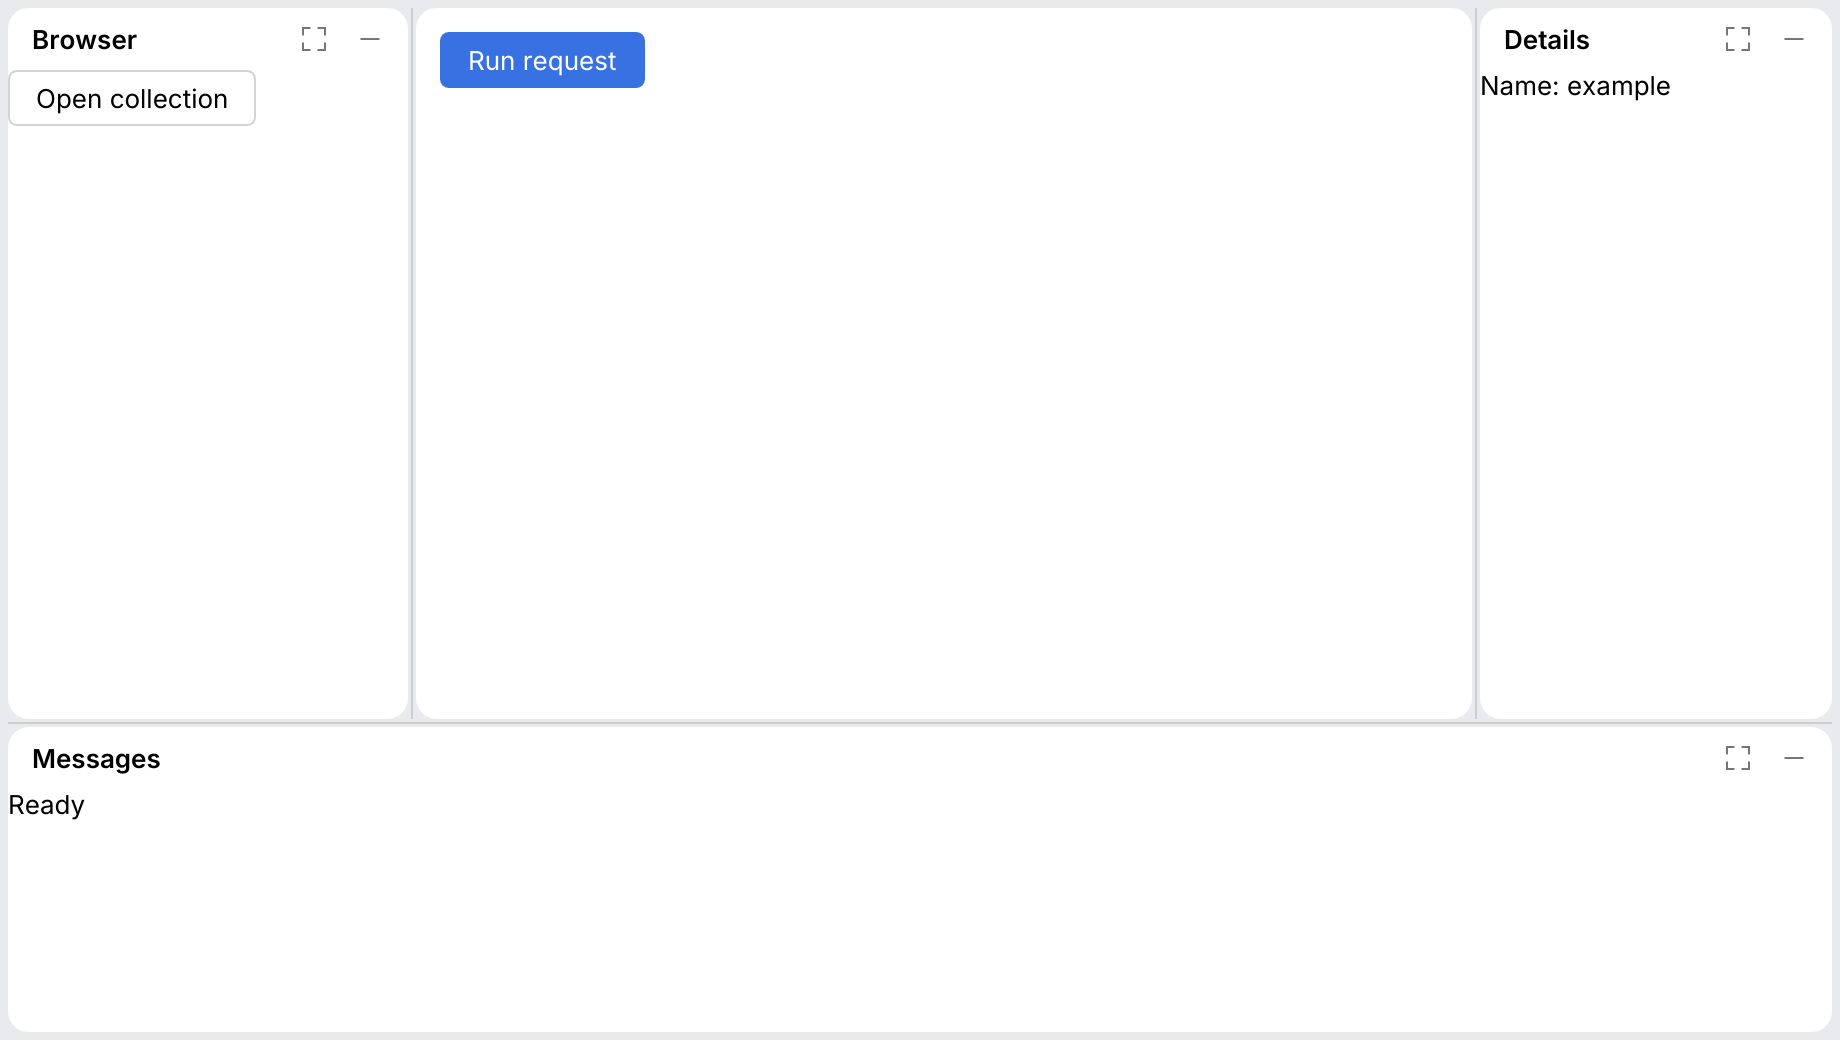
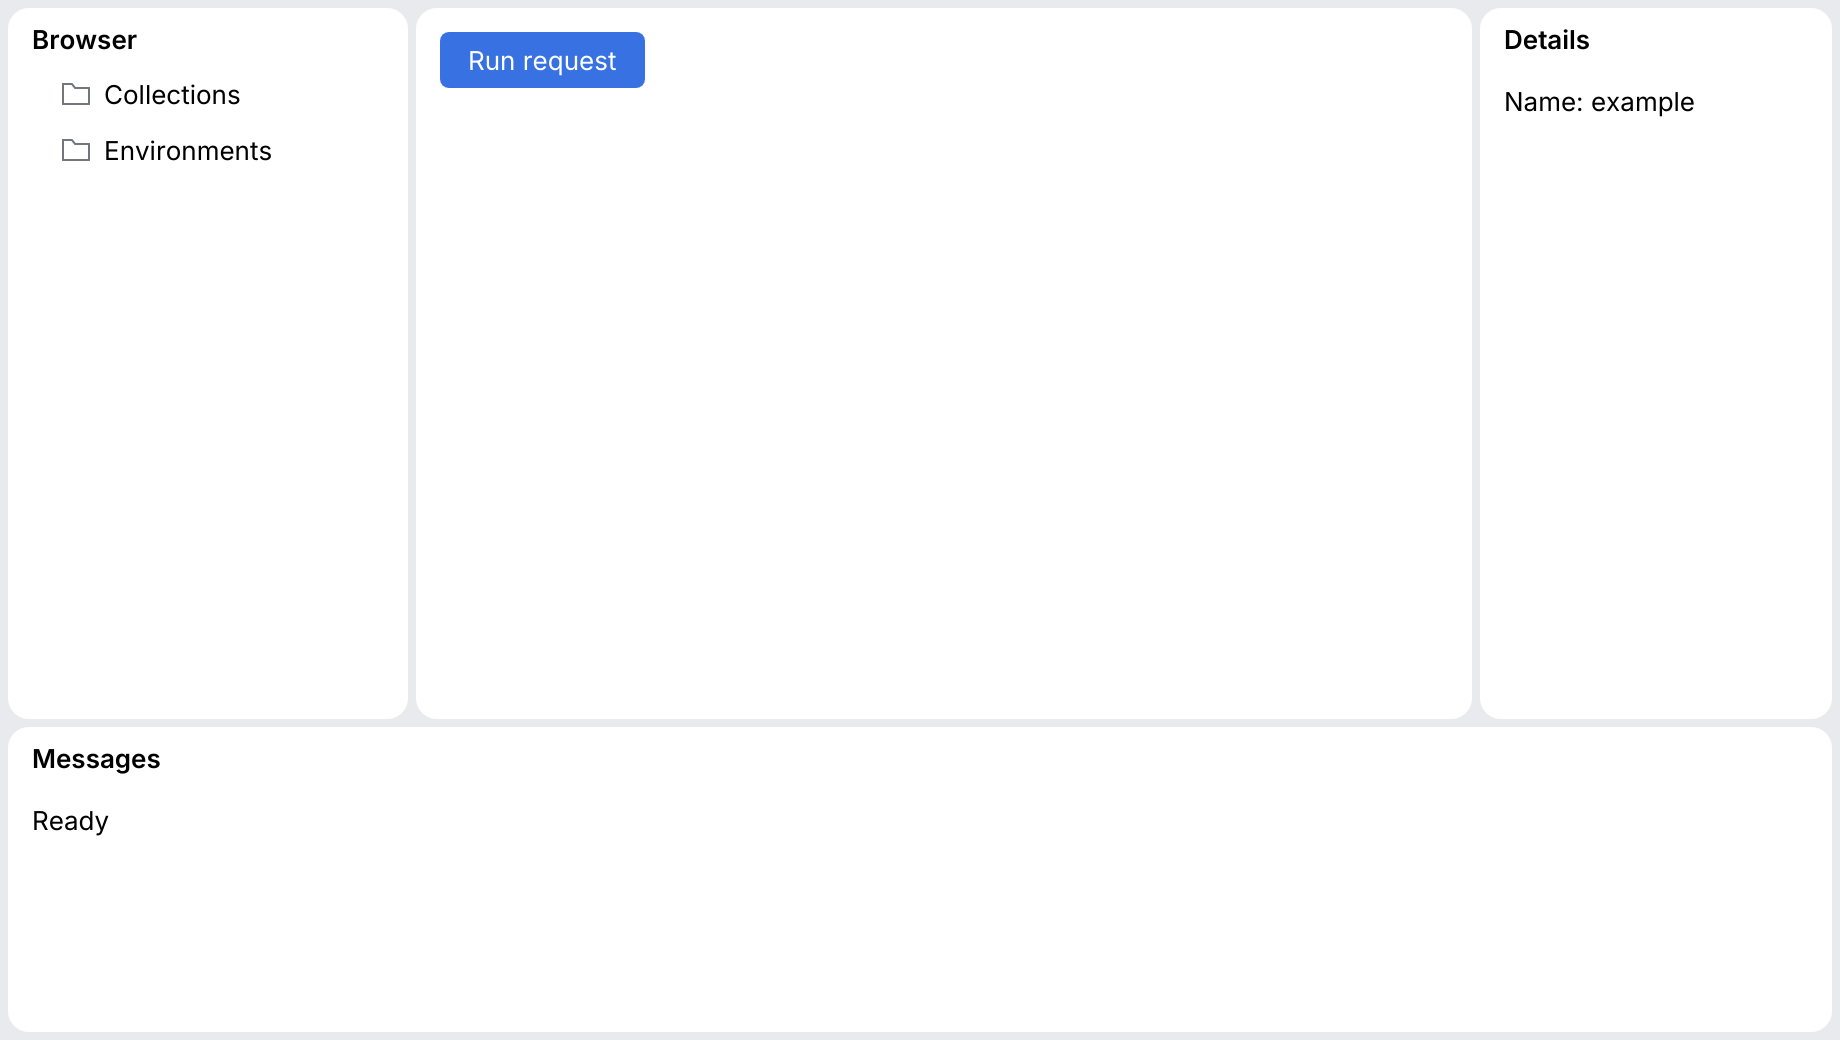
fix(workbench): islands gaps without lines, hover-revealed tool window actions
Match the Android Studio Islands shell:

- SplitPane::line(false) keeps the divider as the plain frame-colored gap;
  Workbench uses it, so islands are no longer separated by hairlines.
- Tool window headers fade their Maximize/Restore and Hide actions in on
  island hover or focus (Panel::hover_actions), with tooltips.
- Workbench::padded(region, bool) insets form and text bodies; trees and
  lists stay edge to edge.
- Fix the island header snapshot hovering at physical instead of logical
  coordinates, so the docs now show the revealed actions.

Claude-Session: https://claude.ai/code/session_01CFSJRhkJs2RrB2frFQVn3u

Changed region(s): [[0.0, 0.0615, 0.1549, 0.1538], [0.8054, 0.0615, 0.9293, 0.1231], [0.0, 0.7692, 0.062, 0.8]]

diff --git a/crates/archipel-kit/src/components/workbench.rs b/crates/archipel-kit/src/components/workbench.rs
@@ -1,6 +1,7 @@
 //! A shared docked islands layout, independent of application content and policy.
 
-use super::{IconButton, Panel, Side, SplitPane, WindowChrome, WindowToolbar};
+use super::{IconButton, Panel, Side, SplitPane, Tooltip, WindowChrome, WindowToolbar};
+use crate::behaviour::WidgetExt;
 use crate::{Glyph, Theme, egui, tokens};
 use egui::{Id, Response, Ui};
 use std::cell::Cell;
@@ -56,6 +57,7 @@ type Content<'a> = Box<dyn FnOnce(&mut Ui) + 'a>;
 struct Region<'a> {
     title: String,
     content: Content<'a>,
+    padded: bool,
 }
 
 /// A reusable window shell: optional toolbar and status bar, a center island, and
@@ -99,28 +101,34 @@ impl<'a> Workbench<'a> {
 
     /// A titled left tool window. Its header provides Hide and Maximize/Restore actions.
     pub fn left(mut self, title: impl Into<String>, content: impl FnOnce(&mut Ui) + 'a) -> Self {
-        self.left = Some(Region {
-            title: title.into(),
-            content: Box::new(content),
-        });
+        self.left = Some(Region::new(title, content));
         self
     }
     /// A titled right tool window.
     pub fn right(mut self, title: impl Into<String>, content: impl FnOnce(&mut Ui) + 'a) -> Self {
-        self.right = Some(Region {
-            title: title.into(),
-            content: Box::new(content),
-        });
+        self.right = Some(Region::new(title, content));
         self
     }
     /// A titled bottom tool window below the main area.
     pub fn bottom(mut self, title: impl Into<String>, content: impl FnOnce(&mut Ui) + 'a) -> Self {
-        self.bottom = Some(Region {
-            title: title.into(),
-            content: Box::new(content),
-        });
+        self.bottom = Some(Region::new(title, content));
         self
     }
+    /// Gives `region`'s body the panel content inset (default: edge to edge, for trees,
+    /// lists and consoles whose rows bring their own inset). Use it for forms and text.
+    /// Call it after adding the region.
+    pub fn padded(mut self, region: WorkbenchRegion, padded: bool) -> Self {
+        let slot = match region {
+            WorkbenchRegion::Left => &mut self.left,
+            WorkbenchRegion::Right => &mut self.right,
+            WorkbenchRegion::Bottom => &mut self.bottom,
+        };
+        if let Some(slot) = slot {
+            slot.padded = padded;
+        }
+        self
+    }
+
     /// Window toolbar; use the same chrome when configuring the host viewport.
     pub fn toolbar(mut self, chrome: WindowChrome, content: impl FnOnce(&mut Ui) + 'a) -> Self {
         self.toolbar = Some((chrome, Box::new(content)));
@@ -220,6 +228,7 @@ impl<'a> Workbench<'a> {
                                     .default_ratio(0.75)
                                     .min_sizes(center_min, min)
                                     .label("Resize right tool window")
+                                    .line(false)
                                     .collapsible(Side::Second, &mut right_hidden)
                                     .enabled(!auto_right)
                                     .show(
@@ -257,6 +266,7 @@ impl<'a> Workbench<'a> {
                                     },
                             )
                             .label("Resize left tool window")
+                            .line(false)
                             .collapsible(Side::First, &mut left_hidden)
                             .enabled(!auto_left)
                             .show(
@@ -286,6 +296,7 @@ impl<'a> Workbench<'a> {
                         .default_ratio(0.7)
                         .min_sizes(center_min, min)
                         .label("Resize bottom tool window")
+                        .line(false)
                         .collapsible(Side::Second, &mut bottom_hidden)
                         .enabled(!auto_bottom)
                         .show(ui, main, |ui| {
@@ -319,7 +330,15 @@ impl<'a> Workbench<'a> {
     }
 }
 
-impl Region<'_> {
+impl<'a> Region<'a> {
+    fn new(title: impl Into<String>, content: impl FnOnce(&mut Ui) + 'a) -> Self {
+        Self {
+            title: title.into(),
+            content: Box::new(content),
+            padded: false,
+        }
+    }
+
     fn show(
         self,
         ui: &mut Ui,
@@ -333,10 +352,16 @@ impl Region<'_> {
             if maximized { "Restore" } else { "Maximize" },
             self.title
         );
+        // As in the IntelliJ Islands UI, the header actions fade in while the pointer is
+        // anywhere over the tool window (or focus is inside it) and fade out when it leaves.
         Panel::new(self.title)
+            .hover_actions(true)
+            .padded(self.padded)
             .on_hide(|| hide.set(Some(region)))
             .actions(|ui| {
-                if ui.add(IconButton::new(Glyph::Fullscreen, label)).clicked() {
+                let button = IconButton::new(Glyph::Fullscreen, label)
+                    .with(Tooltip::new(if maximized { "Restore" } else { "Maximize" }));
+                if ui.add(button).clicked() {
                     maximize.set(Some(region));
                 }
             })

diff --git a/crates/archipel-kit/tests/workbench.rs b/crates/archipel-kit/tests/workbench.rs
@@ -1,7 +1,7 @@
 //! Docked shell: state, visibility, resizing, narrow windows and both themes.
 use archipel_kit::{
-    Theme,
-    components::{Button, Workbench, WorkbenchRegion, WorkbenchState},
+    Glyph, Theme,
+    components::{Button, ListRow, Workbench, WorkbenchRegion, WorkbenchState},
     egui,
     testing::{self, Harness, Queryable, SnapshotOptions, SnapshotResults},
 };
@@ -22,15 +22,19 @@ fn harness(theme: Theme, width: f32, right: bool, gpu: bool) -> Harness<'static,
             }
             let mut shell = Workbench::new("test", state)
                 .left("Browser", |ui| {
-                    ui.add(Button::secondary("Open collection"));
+                    ListRow::new("Collections").icon(Glyph::Folder).show(ui);
+                    ListRow::new("Environments").icon(Glyph::Folder).show(ui);
                 })
                 .bottom("Messages", |ui| {
                     ui.label("Ready");
-                });
+                })
+                .padded(WorkbenchRegion::Bottom, true);
             if right {
-                shell = shell.right("Details", |ui| {
-                    ui.label("Name: example");
-                });
+                shell = shell
+                    .right("Details", |ui| {
+                        ui.label("Name: example");
+                    })
+                    .padded(WorkbenchRegion::Right, true);
             }
             shell.show(ctx, |ui| {
                 ui.add(Button::primary("Run request"));
@@ -57,10 +61,10 @@ fn headers_hide_maximize_and_restore_without_losing_layout() {
     h.get_by_label("Hide Browser").click();
     h.run();
     assert!(h.state().left_hidden);
-    assert!(h.query_by_label("Open collection").is_none());
+    assert!(h.query_by_label("Collections").is_none());
     h.state_mut().left_hidden = false;
     h.run();
-    assert!(h.query_by_label("Open collection").is_some());
+    assert!(h.query_by_label("Collections").is_some());
     assert_eq!(h.state().left_ratio, before);
 }
 
@@ -68,7 +72,7 @@ fn headers_hide_maximize_and_restore_without_losing_layout() {
 fn small_windows_keep_the_center_and_preserve_preferred_state() {
     let mut h = harness(Theme::light(), 280.0, true, false);
     assert!(h.query_by_label("Run request").is_some());
-    assert!(h.query_by_label("Open collection").is_none());
+    assert!(h.query_by_label("Collections").is_none());
     assert!(!h.state().left_hidden && !h.state().right_hidden);
     assert_eq!(h.state().left_ratio, WorkbenchState::default().left_ratio);
     h.state_mut().maximized = Some(WorkbenchRegion::Left);
@@ -122,4 +126,19 @@ fn snapshot() {
         }
     }
     results.unwrap();
+}
+
+#[test]
+fn padded_regions_inset_their_body_and_gaps_have_no_line() {
+    let h = harness(Theme::dark(), 920.0, true, false);
+    let details = h.get_by_label("Name: example").rect();
+    let messages = h.get_by_label("Ready").rect();
+    let rows = h.get_by_label("Collections").rect();
+    // Padded bodies start at the content inset, like the island title above them.
+    let inset = archipel_kit::tokens::size::CONTENT_INSET;
+    let gap = archipel_kit::tokens::size::ISLAND_GAP;
+    assert!(messages.left() >= gap + inset - 0.5, "{messages:?}");
+    // Edge-to-edge regions leave the inset to their rows.
+    assert!(rows.left() <= gap + 0.5, "{rows:?}");
+    assert!(details.left() > rows.right());
 }

diff --git a/crates/archipel-kit/src/components/split_pane.rs b/crates/archipel-kit/src/components/split_pane.rs
@@ -71,6 +71,7 @@ pub struct SplitPane<'a> {
     min_second: f32,
     label: String,
     enabled: bool,
+    line: bool,
     collapse: Option<Collapse<'a>>,
     behaviours: Behaviours<'a>,
 }
@@ -105,6 +106,7 @@ impl<'a> SplitPane<'a> {
             min_second: size::SPLIT_MIN_PANE,
             label: "Resize panes".into(),
             enabled: true,
+            line: true,
             collapse: None,
             behaviours: Behaviours::default(),
         }
@@ -165,6 +167,14 @@ impl<'a> SplitPane<'a> {
     /// A locked split (`false`) has a divider that ignores the pointer and the keyboard.
     pub fn enabled(mut self, enabled: bool) -> Self {
         self.enabled = enabled;
+        self
+    }
+
+    /// Whether the divider draws a line (default `true`). Between islands the gap itself is
+    /// the divider, as in the IntelliJ Islands UI: pass `false` and it stays the frame color,
+    /// showing only the resize cursor. A collapsed edge and the focus ring still show.
+    pub fn line(mut self, line: bool) -> Self {
+        self.line = line;
         self
     }
 
@@ -461,6 +471,12 @@ impl<'a> SplitPane<'a> {
                 (2.0, colors.control_border)
             } else {
                 (1.0, colors.separator)
+            };
+            // Without a line, only a collapsed edge is drawn: the gap is the divider.
+            let color = if self.line || collapsed {
+                color
+            } else {
+                egui::Color32::TRANSPARENT
             };
             let line = if horizontal {
                 Rect::from_center_size(bar.center(), vec2(thickness, bar.height()))

diff --git a/crates/archipel-kit-gallery/src/pages/workbench.rs b/crates/archipel-kit-gallery/src/pages/workbench.rs
@@ -1,5 +1,5 @@
 use super::*;
-use archipel_kit::components::{Workbench, WorkbenchState};
+use archipel_kit::components::{Workbench, WorkbenchRegion, WorkbenchState};
 
 #[derive(Default)]
 pub(super) struct State {
@@ -20,7 +20,7 @@ pub(super) fn show(ui: &mut egui::Ui, state: &mut State, _enabled: bool) {
         }
     });
     ui.label(
-        "Drag splitters or Tab to one and use arrows / Enter. Headers hide, maximize and restore.",
+        "Hover an island to reveal its actions. Drag the gaps, or Tab to one and use arrows / Enter.",
     );
     ui.allocate_ui(egui::vec2(ui.available_width(), 400.0), |ui| {
         Workbench::new("preview", &mut state.layout)
@@ -30,9 +30,11 @@ pub(super) fn show(ui: &mut egui::Ui, state: &mut State, _enabled: bool) {
             .right("Details", |ui| {
                 ui.label("Format: JSON");
             })
+            .padded(WorkbenchRegion::Right, true)
             .bottom("Messages", |ui| {
                 ui.label("Ready");
             })
+            .padded(WorkbenchRegion::Bottom, true)
             .show_inside(ui, |ui| {
                 ui.add(Button::primary("Run request"));
                 ui.label("Your application content");

diff --git a/crates/archipel-kit/tests/island_header.rs b/crates/archipel-kit/tests/island_header.rs
@@ -76,7 +76,8 @@ fn snapshot() {
     let mut results = SnapshotResults::new();
     for (name, theme) in [("dark", Theme::dark()), ("light", Theme::light())] {
         let mut h = harness(theme, true);
-        let body = h.get_by_label("Body action").rect().center();
+        // AccessKit bounds are physical pixels; the pointer is in points (2× here).
+        let body = h.get_by_label("Body action").rect().center() / 2.0;
         h.hover_at(body);
         h.run();
         results.add(h.try_snapshot_options(

diff --git a/docs/components/workbench.md b/docs/components/workbench.md
@@ -5,20 +5,39 @@ All gutters and splitters use the kit tokens. Its optional toolbar uses `WindowT
 the optional status area stays on the themed frame. Applications supply the content.
 
 ```rust
-use archipel_kit::components::{Workbench, WorkbenchState, WindowChrome, StatusBarItem};
+use archipel_kit::components::{
+    StatusBarItem, WindowChrome, Workbench, WorkbenchRegion, WorkbenchState,
+};
 let mut state = WorkbenchState::default();
 # egui::__run_test_ctx(|ctx| {
 Workbench::new("workspace", &mut state)
     .toolbar(WindowChrome::Integrated, |ui| { ui.label("My application"); })
     .left("Browser", |ui| { ui.label("Collections"); })
     .right("Details", |ui| { ui.label("Properties"); })
+    .padded(WorkbenchRegion::Right, true)
     .bottom("Messages", |ui| { ui.label("Ready"); })
+    .padded(WorkbenchRegion::Bottom, true)
     .status(|ui| { ui.add(StatusBarItem::new("UTF-8")); })
     .show(ctx, |ui| { ui.label("Document"); });
 # });
 ```
 
 `WorkbenchRegion` identifies the left, right or bottom maximized tool window.
+
+## Islands behavior
+
+As in the IntelliJ / Android Studio Islands UI:
+
+- **Gaps are the dividers.** The 4 pt frame-colored gap between islands has no line; the
+  pointer shows the resize cursor over it (`SplitPane::line(false)`). Tab still reaches each
+  divider, which then shows the focus ring.
+- **Header actions appear on hover.** A tool window's Maximize/Restore and Hide buttons
+  fade in over 160 ms (`tokens::size::ISLAND_ACTION_FADE`) while the pointer is anywhere over
+  that island, header or body, and fade out when it leaves. Keyboard focus inside the
+  island reveals them as well; hidden, they keep their space, names and Tab order.
+- **Bodies are edge to edge** by default, so trees, lists and consoles bring their own row
+  inset. `.padded(WorkbenchRegion::Right, true)` gives a form or text body the content inset.
+
 
 The caller owns `WorkbenchState`, which supports serde serialization independently of
 egui. Drag or use the splitter arrow keys to resize; Enter collapses or expands its tool

diff --git a/docs/components/split-pane.md b/docs/components/split-pane.md
@@ -93,6 +93,7 @@ fn with_sidebar(ui: &mut egui::Ui, ratio: &mut f32, collapsed: &mut bool) {
 | `.collapsible(Side, &mut bool)` | The side that can collapse and the caller's collapsed flag. One side per split. |
 | `.label(text)` | The divider's accessible name (default "Resize panes"). |
 | `.enabled(bool)` | A locked split ignores pointer and keyboard. |
+| `.line(bool)` | Whether the divider draws a line (default `true`). Islands pass `false`: the frame-colored gap is the divider, and only the resize cursor, a collapsed edge and the focus ring show. |
 | `.with(behaviour)` | A [behaviour](../behaviours.md) on the divider, such as a tooltip. |
 | `.show(ui, first, second)` | Draws both panes; each closure gets a `Ui` that is exactly its pane. |
 

diff --git a/docs/components/panel.md b/docs/components/panel.md
@@ -72,7 +72,7 @@ second component that would paint the same title and toolbar.
 | `Separator` | 1 pt line across the available width, or a vertical one in a horizontal layout. |
 | `PropertyGrid::new(id)` | `.row(key, value)`, `.mono_row(key, value)`, `.show(ui)`. |
 
-Panels sit on the frame color with a 2 pt gap between them (`tokens::size::ISLAND_GAP`); see
+Panels sit on the frame color with a 4 pt gap between them (`tokens::size::ISLAND_GAP`); see
 the [gallery](../../crates/archipel-kit-gallery/src/main.rs) for a full workbench layout.
 
 Source: [`components/layout.rs`](../../crates/archipel-kit/src/components/layout.rs) ·
